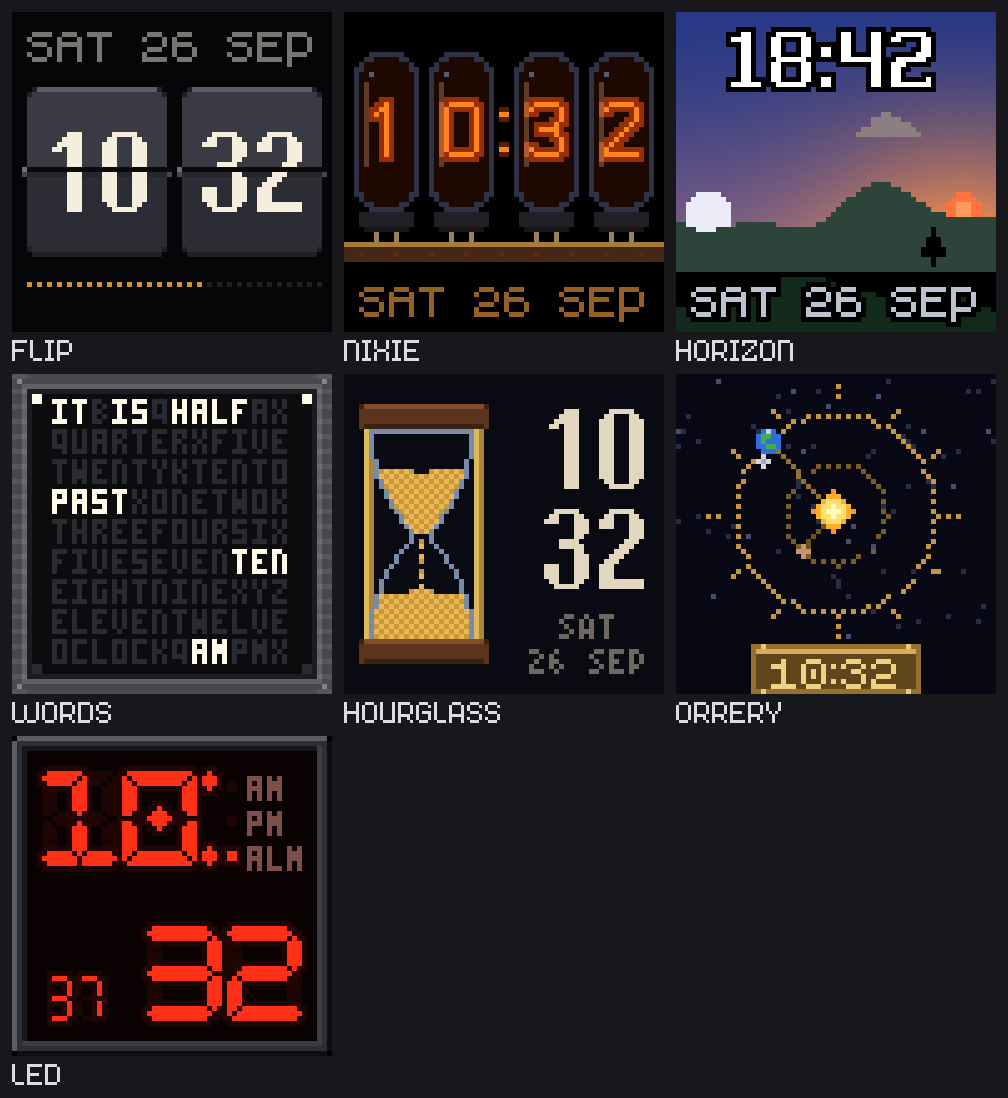
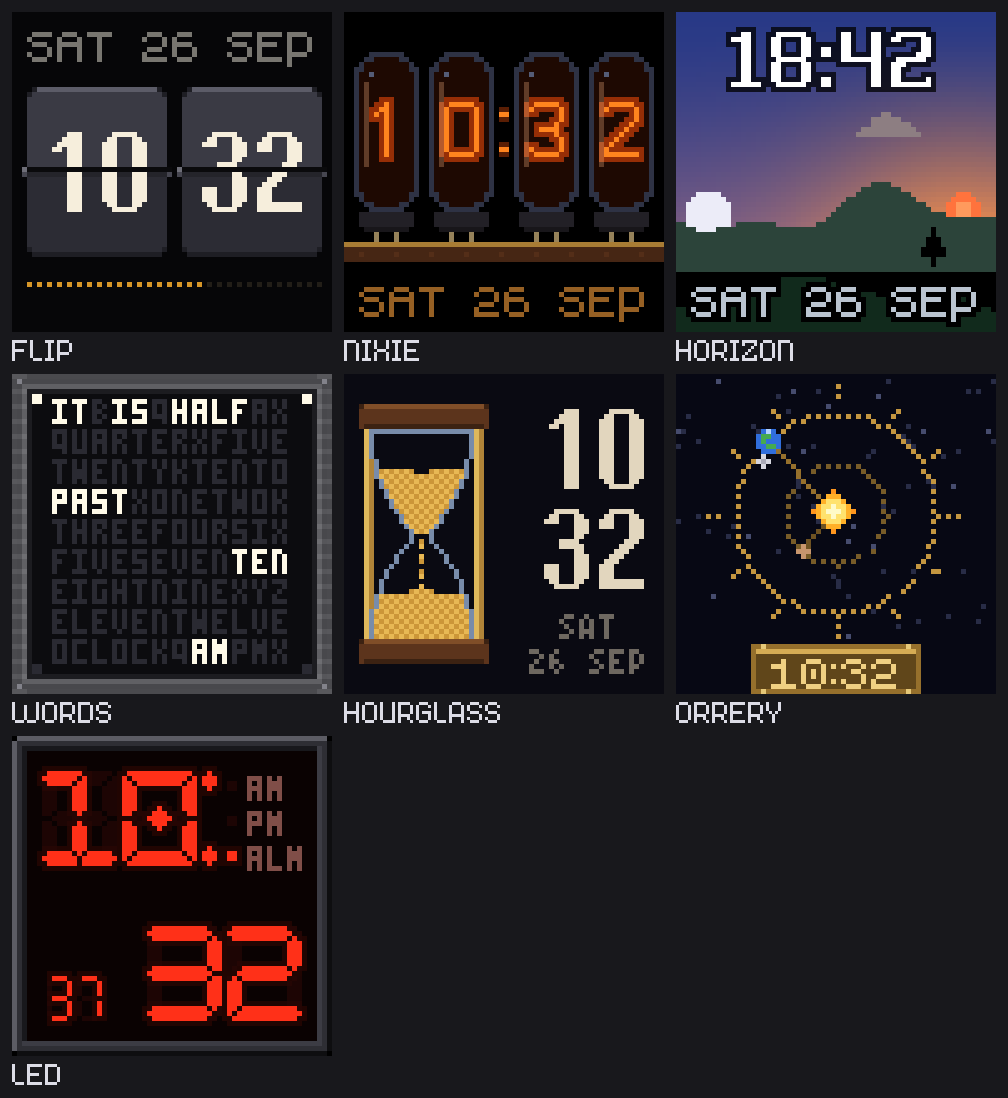
widgets: the horizon's time and meridiem outlined at 75 % black (p070)
The outline of the time (Everyday Vast Black) and of AM/PM is now one shape
(fonts::draw_mask over every character) darkened once at alpha 191, so the
sky shows through it evenly where the halos of neighbouring pixels and
digits overlap; the ink is drawn over it as before. The date keeps its
solid outline. The 4 KB mask is above malloc's internal-RAM threshold, so
it lands in PSRAM on the device (heap after the flash: 68 KB internal free,
largest block 32 KB). Mock first, references regenerated, 49/49 pixel-exact.

Changed region(s): [[0.7073, 0.0, 0.9534, 0.0929]]

diff --git a/firmware/components/p64_widgets/src/face_horizon.cpp b/firmware/components/p64_widgets/src/face_horizon.cpp
@@ -3,10 +3,13 @@
 // (a red disc near the horizon, gold with rays above), stars once the sun is far enough
 // down, the moon with its phase, clouds by the weather's cover drifting with the minute,
 // rain or snow, hills and a tree that darken at night (assets/clock/horizon), the time on
-// top in outlined white (Everyday Vast Black) and the date on the ground. Floating point: the host test compares
-// it with the mock within a tolerance rather than pixel for pixel.
+// top in white outlined at 75 % black (Everyday Vast Black) and the date on the ground.
+// Floating point: the host test compares it with the mock within a tolerance rather than
+// pixel for pixel.
 #include <algorithm>
 #include <cmath>
+#include <cstdint>
+#include <vector>
 
 #include "clock_assets.hpp"
 #include "p64/gfx/fonts.hpp"
@@ -229,10 +232,16 @@ void draw_horizon(Frame &frame, const Moment &m, const Options &o, const Sky &sk
   const std::string hh = o.h24 ? (m.hour < 10 ? "0" : "") + std::to_string(m.hour) : std::to_string(m.h12());
   const std::string mm = (m.minute < 10 ? "0" : "") + std::to_string(m.minute);
   const std::string time = hh + (colon_on(m, o) ? ":" : " ") + mm;
-  // one extra pixel between the characters; the outlines first, then the ink, as one string draws
+  // one extra pixel between the characters; the time and the meridiem's outline is one
+  // shape darkened once at kOutlineAlpha, so the sky shows through it evenly where halos
+  // overlap (p070), then the ink over it. The mask is 4 KB, above the internal-RAM
+  // threshold of malloc, so on the device it lands in PSRAM.
   constexpr int kGap = 1;
+  constexpr uint8_t kOutlineAlpha = 191;  // 75 %
   const int spaced = gfx::fonts::width(*big, time) + kGap * (static_cast<int>(time.size()) - 1);
   const int x0 = (Frame::width() - spaced) / 2, x_end = x0 + spaced;
+  const int meridiem_x = x_end - gfx::fonts::width(font, m.meridiem());
+  std::vector<uint8_t> mask(static_cast<size_t>(Frame::width() * Frame::height()), 0);
   for (const bool ink : {false, true}) {
     int x = x0;
     for (const char ch : time) {
@@ -240,12 +249,24 @@ void draw_horizon(Frame &frame, const Moment &m, const Options &o, const Sky &sk
       if (ink) {
         gfx::fonts::draw(frame, *big, x, 4, one, white, 1);
       } else {
-        gfx::fonts::draw(frame, *big, x, 4, one, black, 1, &black);
+        gfx::fonts::draw_mask(mask.data(), *big, x, 4, one, 1, true);
       }
       x += gfx::fonts::width(*big, one) + kGap;
     }
+    if (!o.h24) {
+      if (ink) {
+        gfx::fonts::draw(frame, font, meridiem_x, 18, m.meridiem(), white, 1);
+      } else {
+        gfx::fonts::draw_mask(mask.data(), font, meridiem_x, 18, m.meridiem(), 1, true);
+      }
+    }
+    if (!ink) {
+      for (int y = 0; y < Frame::height(); ++y)
+        for (int xx = 0; xx < Frame::width(); ++xx)
+          if (mask[static_cast<size_t>(y * Frame::width() + xx)] == gfx::fonts::kMaskOutline)
+            frame.blend(xx, y, black, kOutlineAlpha);
+    }
   }
-  if (!o.h24) gfx::fonts::draw(frame, font, x_end - gfx::fonts::width(font, m.meridiem()), 18, m.meridiem(), white, 1, &black);
   gfx::fonts::draw_centred(frame, font, 55, date_text(m, o.month_first), lerp({150, 160, 190}, {230, 240, 230}, light), 1, &black);
 }
 

diff --git a/firmware/tools/mock_clock_faces.py b/firmware/tools/mock_clock_faces.py
@@ -246,6 +246,11 @@ def lerp(a, b, t):
     return tuple(int(round(a[i] + (b[i] - a[i]) * t)) for i in range(3))
 
 
+def blend(under, c, alpha):
+    """Frame::blend: integer, rounded to nearest."""
+    return tuple((under[i] * (255 - alpha) + c[i] * alpha + 127) // 255 for i in range(3))
+
+
 def upscale(img, s):
     return img.resize((img.width * s, img.height * s), Image.NEAREST)
 
@@ -672,6 +677,8 @@ SKY = [
 STARS = [(5, 4), (14, 9), (22, 3), (30, 12), (41, 6), (50, 2), (57, 10), (9, 16), (36, 18), (60, 20), (26, 22), (47, 15), (3, 24), (54, 27)]
 CLOUD_SPOTS = [(5, 20), (40, 28), (24, 14), (52, 10), (12, 32), (34, 22), (58, 30)]
 HORIZON_Y = 46
+HORIZON_OUTLINE_ALPHA = 191  # the time's black outline at 75 % (p070)
+MASK_OUTLINE, MASK_TEXT = (1, 1, 1), (2, 2, 2)  # fonts::kMaskOutline, kMaskText
 
 
 def sky_palette(el):
@@ -841,21 +848,31 @@ def draw_horizon(m, o, lat=40.0, lon=0.0, tz=0.0, year=2026, cover=0, precip="")
     big = load_font("everyday-vast-black")  # the time, at its native 11 px
     hh = f"{m.hour:02d}" if o.h24 else str(m.h12())
     time_text = f"{hh}:{m.minute:02d}" if colon_on(m, o) else f"{hh} {m.minute:02d}"
-    # one extra pixel between the characters; the outlines first, then the ink, as one string draws
+    # one extra pixel between the characters; the time and the meridiem's outline is one
+    # shape (fonts::draw_mask) darkened once at HORIZON_OUTLINE_ALPHA, so the sky shows
+    # through it evenly where halos overlap (p070), then the ink over it
     gap = 1
     spaced = text_width(big, time_text) + gap * (len(time_text) - 1)
     x0 = (W - spaced) // 2
     x_end = x0 + spaced
-    for ink in (False, True):
-        x = x0
-        for ch in time_text:
-            if ink:
-                draw_text(frame, big, x, 4, ch, (255, 255, 255), 1)
-            else:
-                draw_text(frame, big, x, 4, ch, (0, 0, 0), 1, outline=(0, 0, 0))
-            x += text_width(big, ch) + gap
+    mask = Frame()
+    x = x0
+    for ch in time_text:
+        draw_text(mask, big, x, 4, ch, MASK_TEXT, 1, outline=MASK_OUTLINE)
+        x += text_width(big, ch) + gap
+    mx = x_end - text_width(font, m.meridiem())
     if not o.h24:
-        draw_text(frame, font, x_end - text_width(font, m.meridiem()), 18, m.meridiem(), (255, 255, 255), 1, outline=(0, 0, 0))
+        draw_text(mask, font, mx, 18, m.meridiem(), MASK_TEXT, 1, outline=MASK_OUTLINE)
+    for y in range(H):
+        for x in range(W):
+            if mask.get(x, y) == MASK_OUTLINE:
+                frame.set(x, y, blend(frame.get(x, y), (0, 0, 0), HORIZON_OUTLINE_ALPHA))
+    x = x0
+    for ch in time_text:
+        draw_text(frame, big, x, 4, ch, (255, 255, 255), 1)
+        x += text_width(big, ch) + gap
+    if not o.h24:
+        draw_text(frame, font, mx, 18, m.meridiem(), (255, 255, 255), 1)
     draw_centred(frame, font, 55, m.date(o.month_first), lerp((150, 160, 190), (230, 240, 230), light), 1, outline=(0, 0, 0))
     return frame
 
